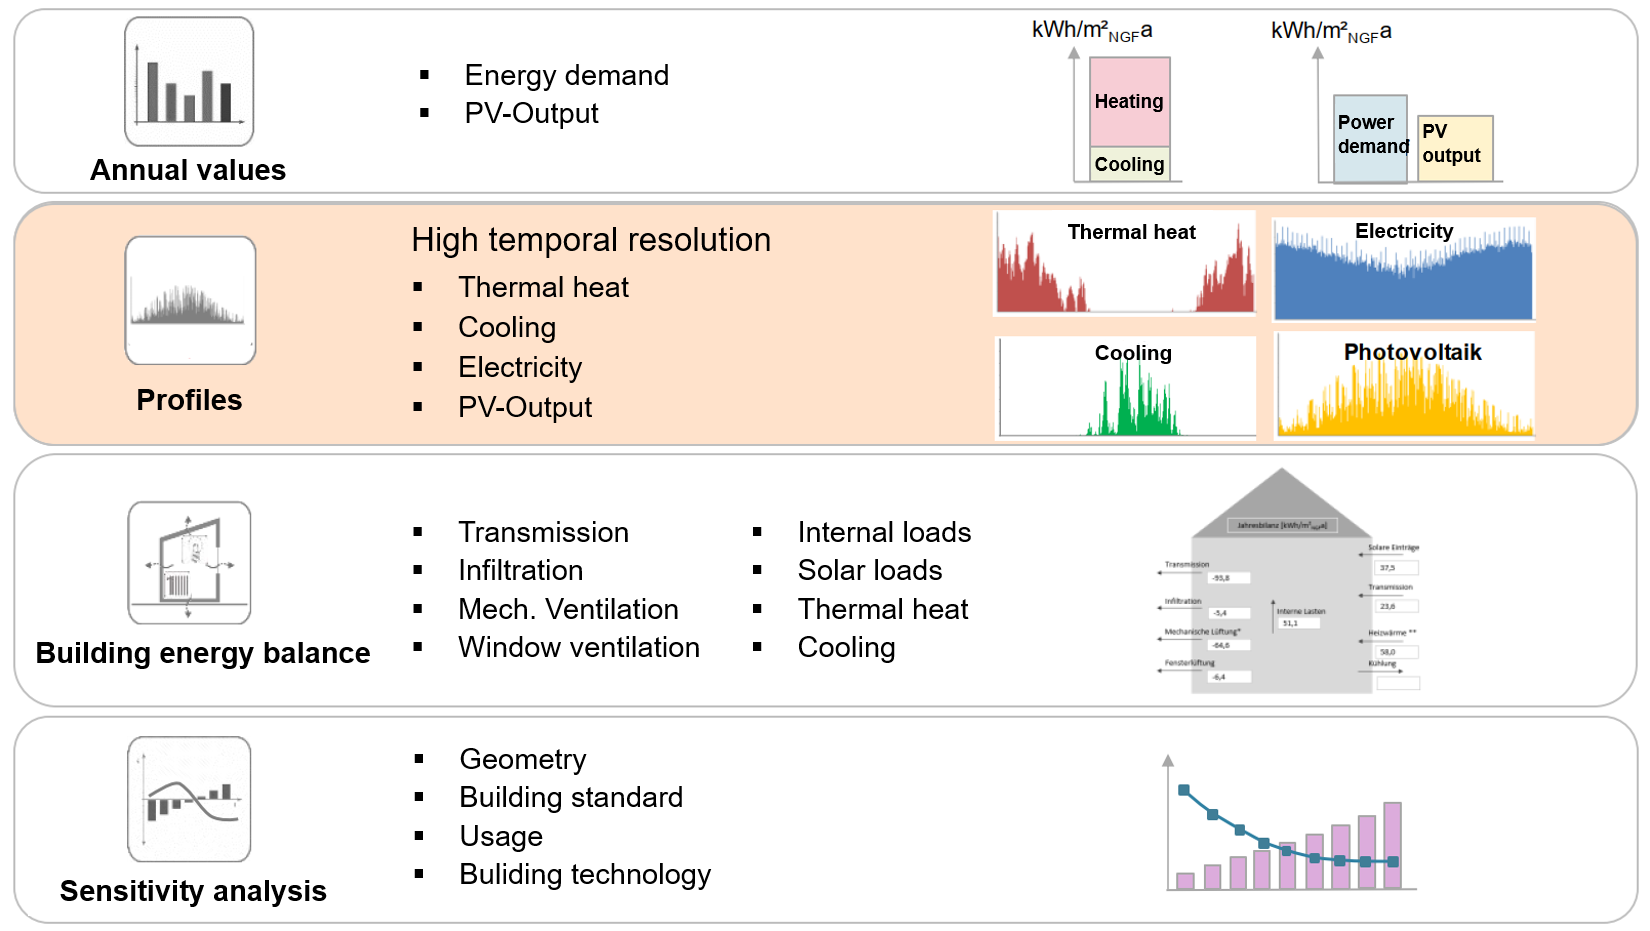
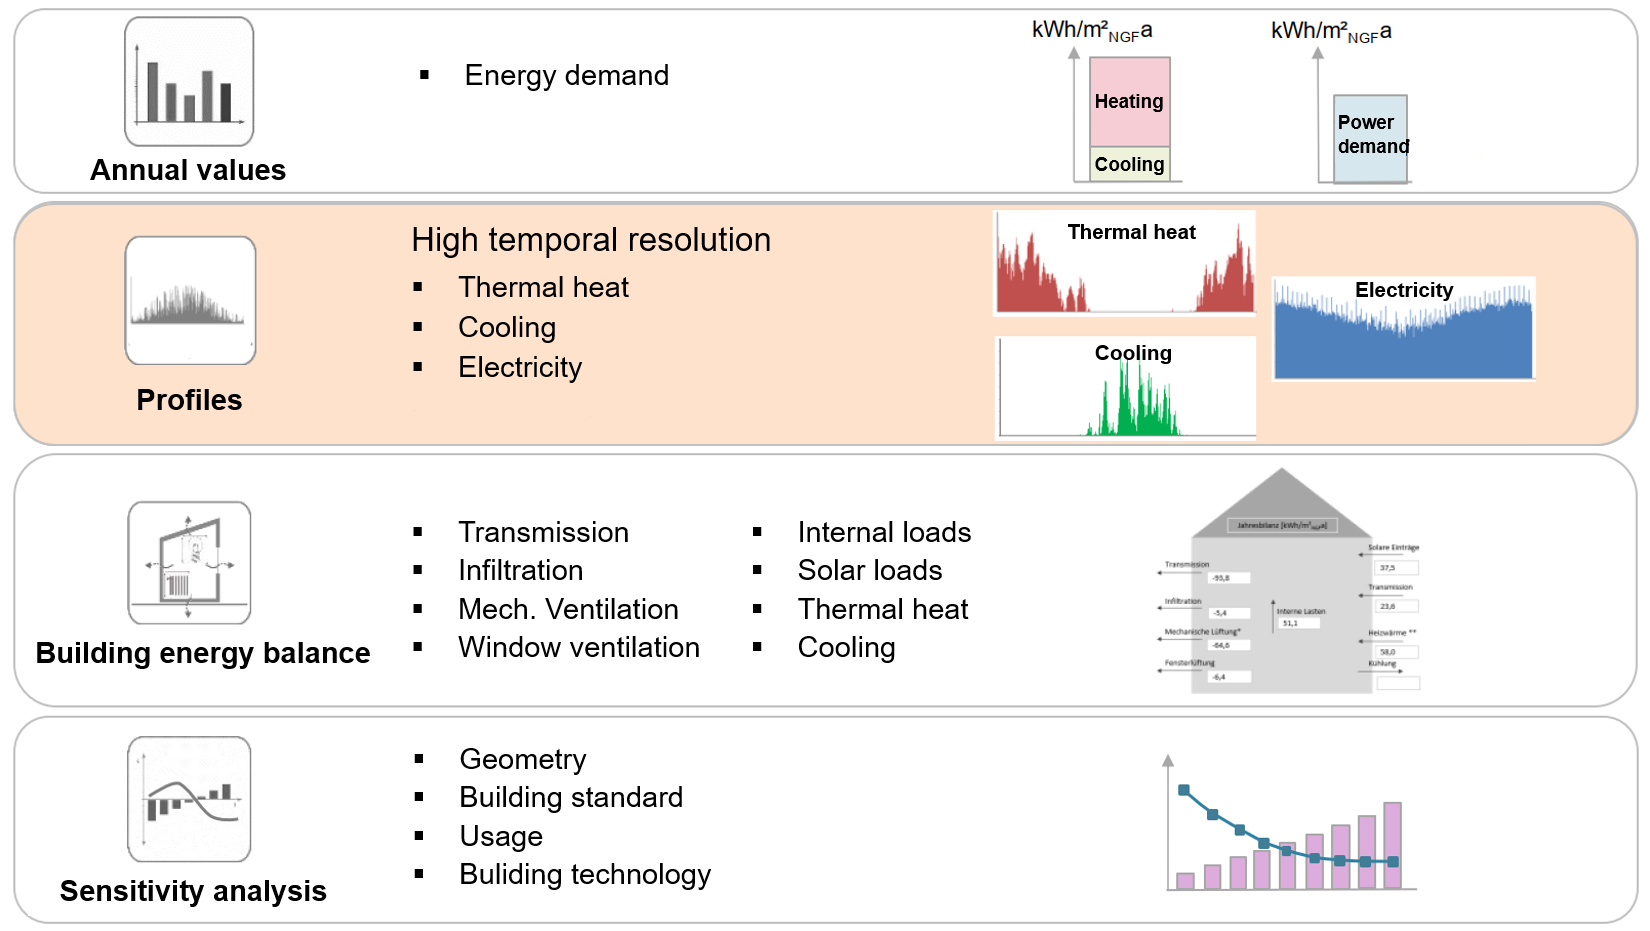
Adjust figures and text for chapter 1 and add missing figure for simulation status.

Changed region(s): [[0.7727, 0.1246, 0.9582, 0.4984], [0.2782, 0.4049, 0.3709, 0.4672], [0.2782, 0.0934, 0.3709, 0.1557]]

diff --git a/docs/gensim_user_manual.md b/docs/gensim_user_manual.md
@@ -1,10 +1,11 @@
 # GenSim user manual
 ## **1  What is GenSim?**
 
-GenSim - for "generic building simulation" - is a building simulation software using the *EnergyPlus®* simulation computing core to generate high-resolution heating and cooling demand profiles as well as electricity demand profiles and PV outputs. "Generic" in this context means "generally valid" building model. This means that the software can be used to model and simulate any type of building in a very flexible and simplified way. 
+GenSim - for "generic building simulation" - is a building simulation software using the *EnergyPlus®* simulation engine to generate high-resolution heating and cooling demand profiles as well as electricity demand profiles. "Generic" in this context means "generally valid" building model. This means that the software can be used to model and simulate any type of building in a very flexible and simplified way. 
+
 The software was developed for use in the context of project pre-planning where usually no large time budget is available for detailed simulations of buildings. A detailed input and simulation of buildings with common applications like *DesignBuilder®*, *IDA ICE®* or *TRNSYS®* is usually time consuming. GenSim was therefore developed with the aim of ensuring the fastest and simplest possible simulation of buildings. In early planning phases often only relatively rough data on the planned buildings are available. Therefore an optimal relationship between the level of detail of the model and the accuracy of the input parameters should be achieved. 
 
-The input and output of the software is based on *Microsoft Excel®*. The computing core, based on *OpenStudio®*[^1] and *EnergyPlus®* is connected to the Excel interface via Visual Basic for *Applications®* - see following figure. 
+The user interface for input and output is based on *Microsoft Excel®*. The simulation engine, based on *OpenStudio®*[^1] and *EnergyPlus®* is connected to the user interface via *Visual Basic for Applications®* code.
 
 [^1]: OpenStudio® provides a development environment for customised use of EnergyPlus® in software applications. 
 
@@ -244,7 +245,7 @@ Once all the parameters have been entered the simulation is started using the "M
 
 The user is continuously informed about the progress of the model generation and simulation, see following figure. At the end of the simulation process the results of the *EnergyPlus®* simulation are imported into the Excel® user interface.
 
-*figure missing*
+![simulation status information](fig\231117_sim_status.png)
 
 ## **5 Results**
 
